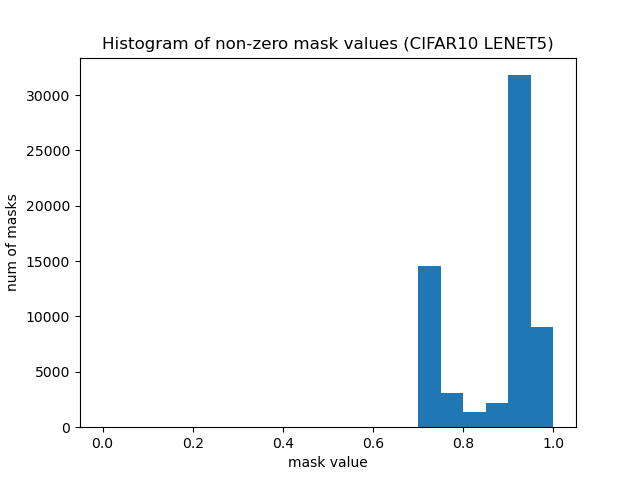
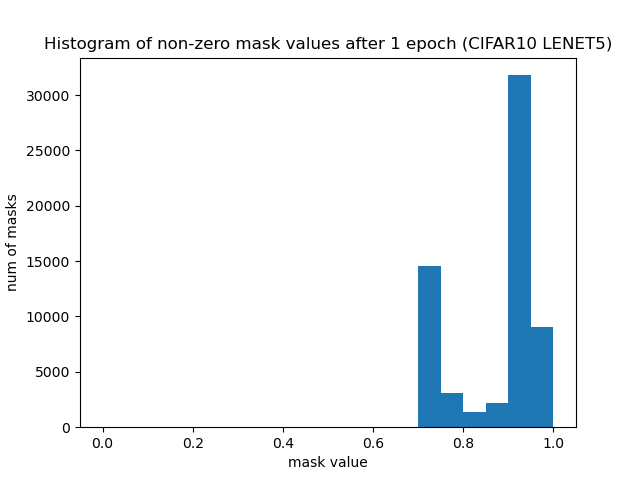
- Updated plot titles.

Changed region(s): [[0.0625, 0.0625, 0.9688, 0.125]]

diff --git a/graph_pruners_metrics.py b/graph_pruners_metrics.py
@@ -24,7 +24,7 @@ json_path = os.path.join(model_dir, 'params.json')
 assert os.path.isfile(json_path), "No json configuration file found at {}".format(json_path)
 params = utils.Params(json_path)
 num_epochs = params.num_epochs
-num_epochs = 20
+num_epochs = 200
 
 # load the pruners
 path_to_pruners = model_dir + '/pruners'
@@ -53,7 +53,7 @@ if not os.path.exists(path_to_graphs):
 # num_bins = 20
 bins_list = [0, 0.05, 0.1, 0.15, 0.2, 0.25, 0.3, 0.35, 0.4, 0.45, 0.5, 0.55, 0.6, 0.65, 0.7, 0.75, 0.8, 0.85, 0.9, 0.95, 1.0]
 fig_3 = plt.figure(3)
-plt.title('Histogram of mask values ({} {})'.format(dataset.upper(), model.upper()))
+plt.title('Histogram of mask values after {} epochs ({} {})'.format(num_epochs, dataset.upper(), model.upper()))
 plt.hist(last_epoch_flat_masks, bins=bins_list, histtype='bar')
 plt.xlabel('mask value')
 plt.ylabel('num of masks')
@@ -62,7 +62,7 @@ plt.close(fig_3)
 
 # plot histogram of non-zero masks
 fig_4 = plt.figure(4)
-plt.title('Histogram of non-zero mask values ({} {})'.format(dataset.upper(), model.upper()))
+plt.title('Histogram of non-zero mask values after {} epochs ({} {})'.format(num_epochs, dataset.upper(), model.upper()))
 plt.hist(last_epoch_non_zero_masks, bins=bins_list, histtype='bar')
 plt.xlabel('mask value')
 plt.ylabel('num of masks')
